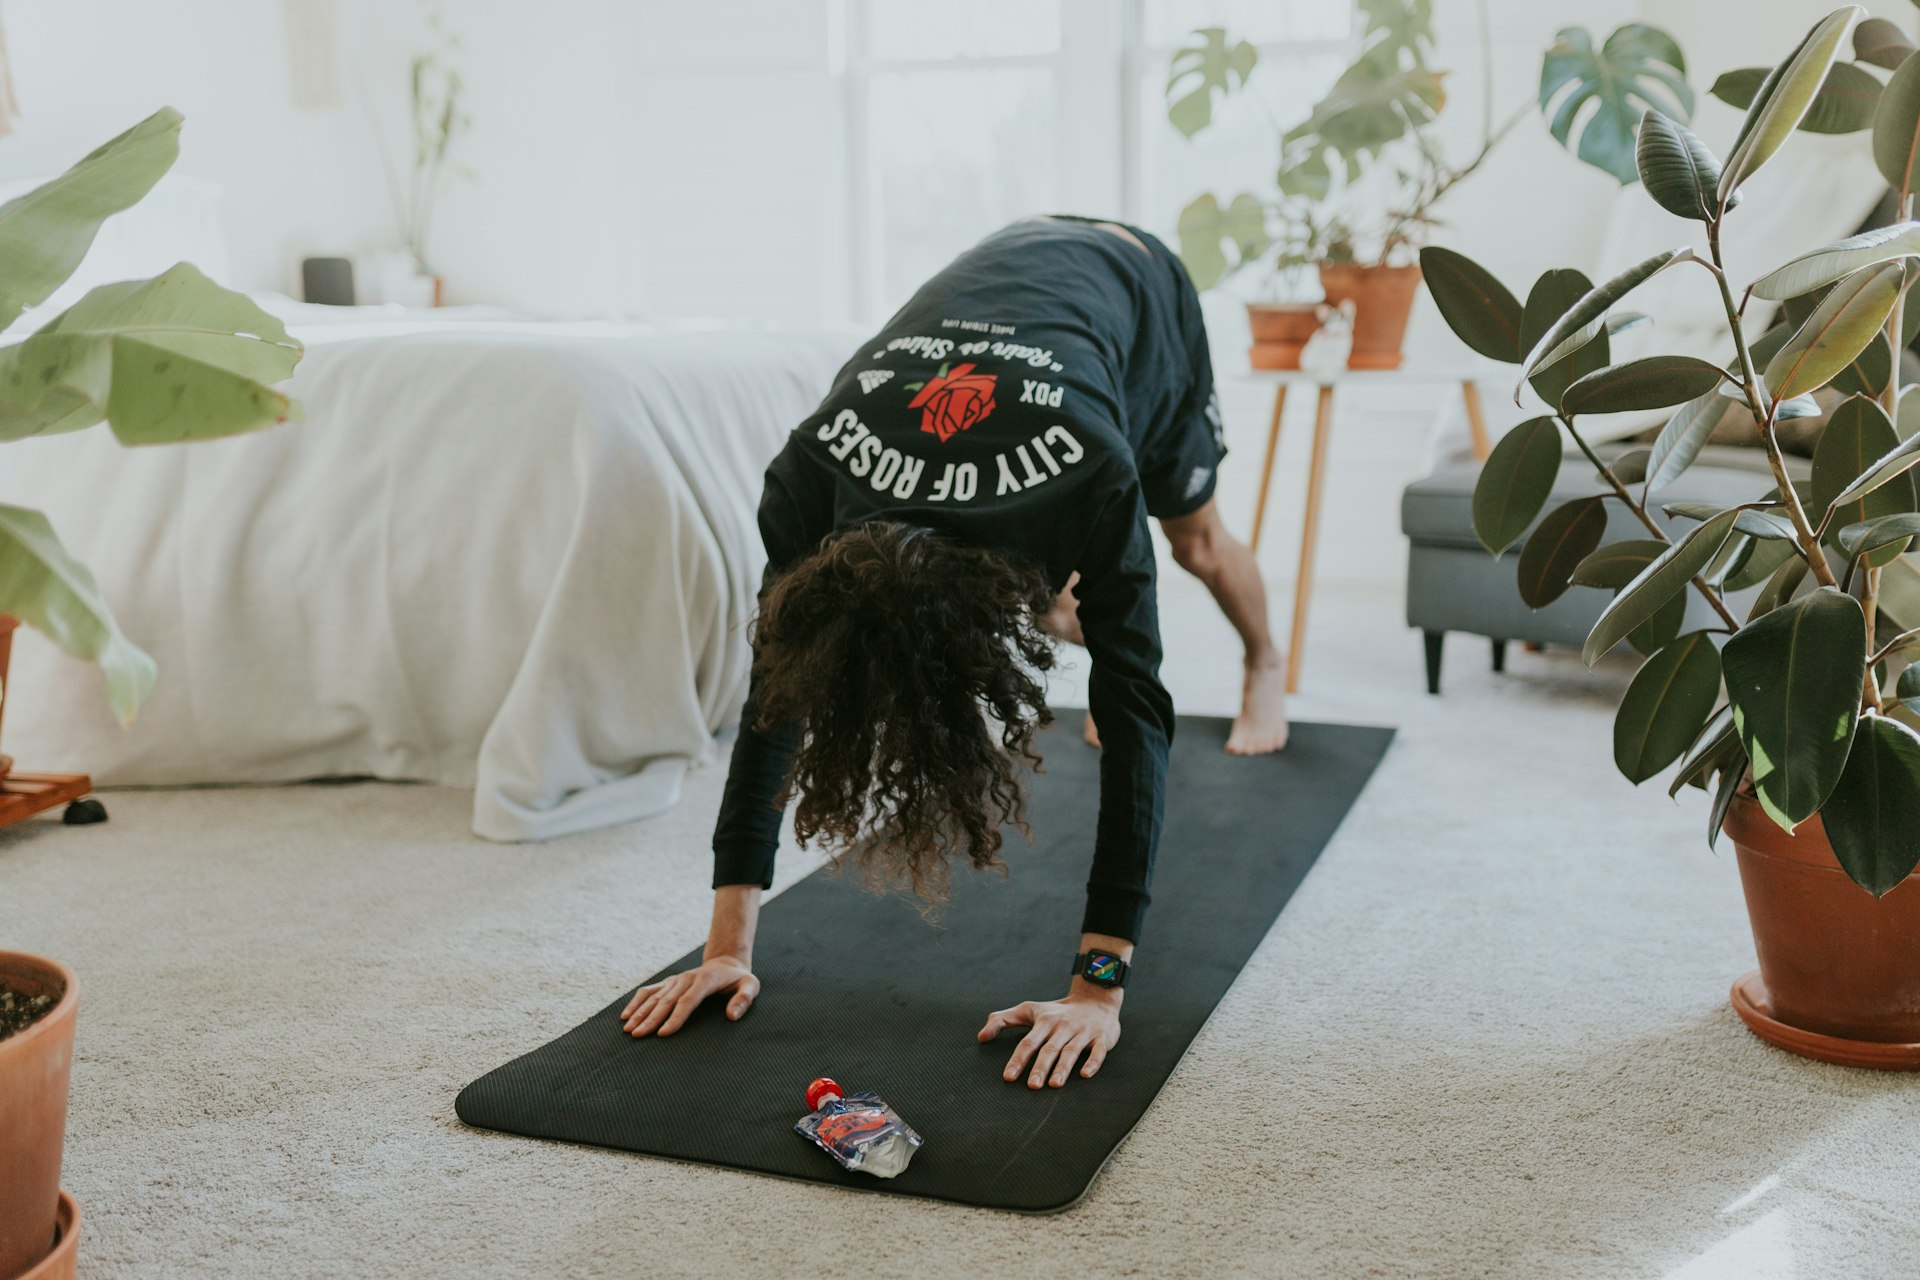
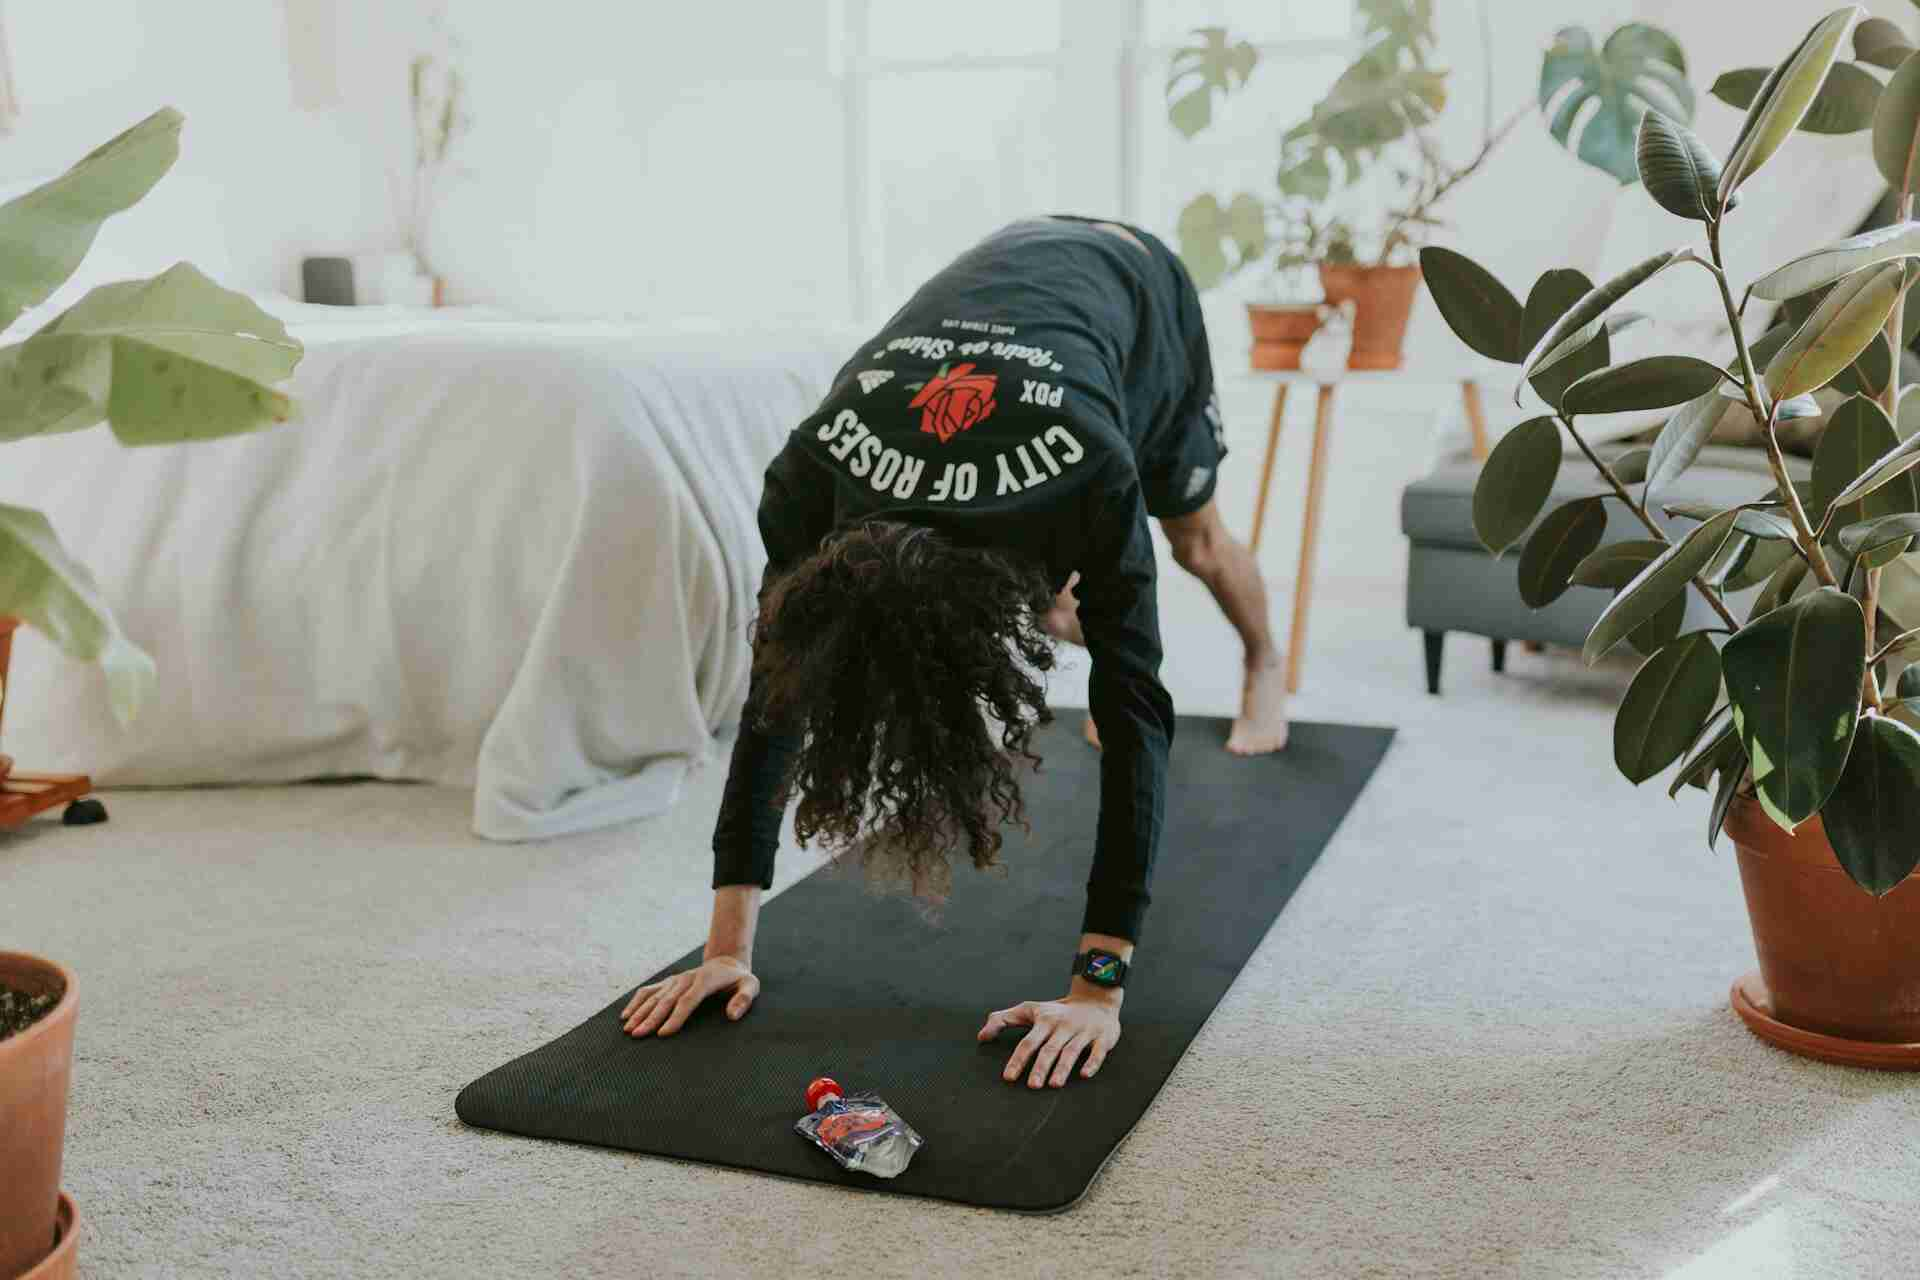
add framer-motion library, update typescript version, and replace hero images

Changed region(s): [[0.4062, 0.8438, 0.4688, 0.9062], [0.4688, 0.3125, 0.5312, 0.3438]]

diff --git a/src/components/Hero/Hero.tsx b/src/components/Hero/Hero.tsx
@@ -2,7 +2,6 @@
 
 import { Container, Badge, Row, Col, Card } from 'react-bootstrap';
 import Button from '@/components/Button';
-import { useState, useEffect, useRef } from 'react';
 import { Icon, loadIcon } from '@iconify/react';
 import styles from './Hero.module.scss';
 import pageData from '@/data/pageData.json';
@@ -20,117 +19,9 @@ Promise.all(
   )
 );
 
-// Custom hook for counting animation
-function useCountAnimation(end: number, duration: number = 2000, format: 'number' | 'k' | 'm' | 'decimal' = 'number', decimals: number = 0, startAnimation: boolean = false) {
-  const [count, setCount] = useState(0);
-
-  useEffect(() => {
-    if (!startAnimation) return;
-
-    let startTime: number | null = null;
-    const startValue = 0;
-
-    const animate = (currentTime: number) => {
-      if (startTime === null) startTime = currentTime;
-      const progress = Math.min((currentTime - startTime) / duration, 1);
-      
-      // Easing function for smooth animation
-      const easeOutQuart = 1 - Math.pow(1 - progress, 4);
-      const current = startValue + (end - startValue) * easeOutQuart;
-      
-      setCount(current);
-
-      if (progress < 1) {
-        requestAnimationFrame(animate);
-      } else {
-        setCount(end);
-      }
-    };
-
-    requestAnimationFrame(animate);
-  }, [end, duration, startAnimation]);
-
-  const formatNumber = (num: number): string => {
-    if (format === 'decimal') {
-      return num.toFixed(decimals);
-    }
-    
-    if (format === 'k') {
-      const value = num / 1000;
-      return Math.floor(value) + 'K';
-    }
-    
-    if (format === 'm') {
-      const value = num / 1000000;
-      return value.toFixed(decimals) + 'M';
-    }
-    
-    return Math.floor(num).toLocaleString();
-  };
-
-  return formatNumber(count);
-}
-
 export default function Hero() {
-  const statsRef = useRef<HTMLDivElement>(null);
-  const [startAnimation, setStartAnimation] = useState(false);
-
   // Icons are preloaded at module level when this file is imported
   // This ensures they start loading as early as possible
-
-  useEffect(() => {
-    const observer = new IntersectionObserver(
-      (entries) => {
-        entries.forEach((entry) => {
-          if (entry.isIntersecting && !startAnimation) {
-            setStartAnimation(true);
-          }
-        });
-      },
-      { threshold: 0.3 }
-    );
-
-    const currentRef = statsRef.current;
-    if (currentRef) {
-      observer.observe(currentRef);
-    }
-
-    return () => {
-      if (currentRef) {
-        observer.unobserve(currentRef);
-      }
-    };
-  }, [startAnimation]);
-
-  const activeUsers = useCountAnimation(
-    pageData.statistics[0].value, 
-    2000, 
-    pageData.statistics[0].format as 'number' | 'k' | 'm' | 'decimal', 
-    pageData.statistics[0].decimals || 0, 
-    startAnimation
-  );
-  const workouts = useCountAnimation(
-    pageData.statistics[1].value, 
-    2000, 
-    pageData.statistics[1].format as 'number' | 'k' | 'm' | 'decimal', 
-    pageData.statistics[1].decimals || 0, 
-    startAnimation
-  );
-  const reports = useCountAnimation(
-    pageData.statistics[2].value, 
-    2000, 
-    pageData.statistics[2].format as 'number' | 'k' | 'm' | 'decimal', 
-    pageData.statistics[2].decimals || 0, 
-    startAnimation
-  );
-  const rating = useCountAnimation(
-    pageData.statistics[3].value, 
-    2000, 
-    pageData.statistics[3].format as 'number' | 'k' | 'm' | 'decimal', 
-    pageData.statistics[3].decimals || 0, 
-    startAnimation
-  );
-  const stats = [activeUsers, workouts, reports, rating];
 
   return (
     <section className={styles.hero}>
@@ -166,28 +57,6 @@ export default function Hero() {
               {pageData.hero.buttons.secondary.text}
             </Button>
           </div>
-          <div 
-            className={styles.scrollPrompt}
-            onClick={() => {
-              const featuresSection = document.getElementById('features');
-              if (featuresSection) {
-                const headerOffset = 100;
-                const elementPosition = featuresSection.getBoundingClientRect().top;
-                const offsetPosition = elementPosition + window.pageYOffset - headerOffset;
-                window.scrollTo({
-                  top: offsetPosition,
-                  behavior: 'smooth'
-                });
-              } else {
-                window.scrollBy({ top: window.innerHeight, behavior: 'smooth' });
-              }
-            }}
-          >
-            <span>Scroll to explore</span>
-            <svg className={styles.scrollArrow} viewBox="0 0 24 24" fill="none" stroke="currentColor" strokeWidth="2">
-              <path d="M6 9l6 6 6-6"/>
-            </svg>
-          </div>
         </div>
 
         {/* Hero Feature Cards */}
@@ -215,22 +84,6 @@ export default function Hero() {
                   </div>
                 </Card.Body>
               </Card>
-            </Col>
-          ))}
-        </Row>
-
-        {/* Hero Statistics Bar */}
-        <Row className={styles.heroStats} ref={statsRef}>
-          {pageData.statistics.map((stat, idx) => (
-            <Col key={idx} md={6} lg={3} className="mb-3 mb-lg-0">
-              <div className={styles.heroStat}>
-                <div className={styles.heroStatNumber}>
-                  {stats[idx]}
-                  {stat.showStar && <span className={styles.starIcon}>★</span>}
-                  {!stat.showStar && '+'}
-                </div>
-                <div className={styles.heroStatLabel}>{stat.label}</div>
-              </div>
             </Col>
           ))}
         </Row>

diff --git a/src/components/Hero/Hero.module.scss b/src/components/Hero/Hero.module.scss
@@ -26,7 +26,7 @@
       left: 0;
       right: 0;
       bottom: 0;
-      background-image: url('/images/hero-5.jpg');
+      background-image: url('/images/hero-21.jpg');
       background-size: cover;
       background-position: center bottom;
       background-repeat: no-repeat;
@@ -121,30 +121,6 @@
     margin-bottom: 64px;
   }
 
-  .scrollPrompt {
-    display: flex;
-    flex-direction: column;
-    align-items: center;
-    gap: 8px;
-    color: rgba(255, 255, 255, 0.8);
-    font-size: 14px;
-    font-weight: $font-weight-medium;
-    margin-top: 32px;
-    cursor: pointer;
-    transition: $transition-base;
-
-    &:hover {
-      color: rgba(255, 255, 255, 1);
-      transform: translateY(4px);
-    }
-
-    .scrollArrow {
-      width: 20px;
-      height: 20px;
-      animation: bounce 2s infinite;
-    }
-  }
-
   // Hero Feature Cards
   .heroFeatures {
     margin-top: 40px;
@@ -219,51 +195,6 @@
     }
   }
 
-  // Hero Statistics Bar
-  .heroStats {
-    margin: 24px 0px 0px 0px;
-    background: rgba(255, 255, 255, 0.1);
-    backdrop-filter: blur(10px);
-    border: 1px solid rgba(255, 255, 255, 0.2);
-    border-radius: $border-radius-md;
-    padding: 32px 24px;
-  }
-
-  .heroStat {
-    text-align: center;
-    color: white;
-  }
-
-  .heroStatNumber {
-    font-size: 36px;
-    font-weight: $font-weight-medium;
-    margin-bottom: 8px;
-    line-height: 1;
-
-    .starIcon {
-      font-size: 24px;
-      vertical-align: middle;
-      margin-left: 2px;
-    }
-  }
-
-  .heroStatLabel {
-    font-size: 14px;
-    font-weight: $font-weight-normal;
-    opacity: 0.8;
-  }
-
-
-  @keyframes bounce {
-    0%,
-    100% {
-      transform: translateY(0);
-    }
-
-    50% {
-      transform: translateY(8px);
-    }
-  }
 
   @media (max-width: 968px) {
     padding: 150px 0 60px;
@@ -288,10 +219,6 @@
         max-width: 300px;
       }
     }
-
-    .heroStats {
-      padding: 24px;
-    }
   }
 
   @media (max-width: 640px) {
@@ -315,14 +242,6 @@
         width: 24px;
         height: 24px;
       }
-    }
-
-    .heroStats {
-      padding: 20px;
-    }
-
-    .heroStatNumber {
-      font-size: 28px;
     }
   }
 }

diff --git a/src/app/page.tsx b/src/app/page.tsx
@@ -1,15 +1,15 @@
 'use client';
 
 import Header from '@/components/Header';
-import Footer from '@/components/Footer';
+// import Footer from '@/components/Footer';
 import Hero from '@/components/Hero';
-import ProductOverview from '@/components/ProductOverview';
-import Features from '@/components/Features';
-import MedicalAI from '@/components/MedicalAI';
-import Gamification from '@/components/Gamification';
-import Pricing from '@/components/Pricing';
-import Testimonials from '@/components/Testimonials';
-import Newsletter from '@/components/Newsletter';
+// import ProductOverview from '@/components/ProductOverview';
+// import Features from '@/components/Features';
+// import MedicalAI from '@/components/MedicalAI';
+// import Gamification from '@/components/Gamification';
+// import Pricing from '@/components/Pricing';
+// import Testimonials from '@/components/Testimonials';
+// import Newsletter from '@/components/Newsletter';
 import styles from './page.module.scss';
 
 export default function Home() {
@@ -17,14 +17,14 @@ export default function Home() {
     <div className={styles.landingPage}>
       <Header />
       <Hero />
-      <ProductOverview />
+      {/* <ProductOverview />
       <Features />
       <MedicalAI />
       <Gamification />
       <Pricing />
       <Testimonials />
       <Newsletter />
-      <Footer />
+      <Footer /> */}
     </div>
   );
 }
